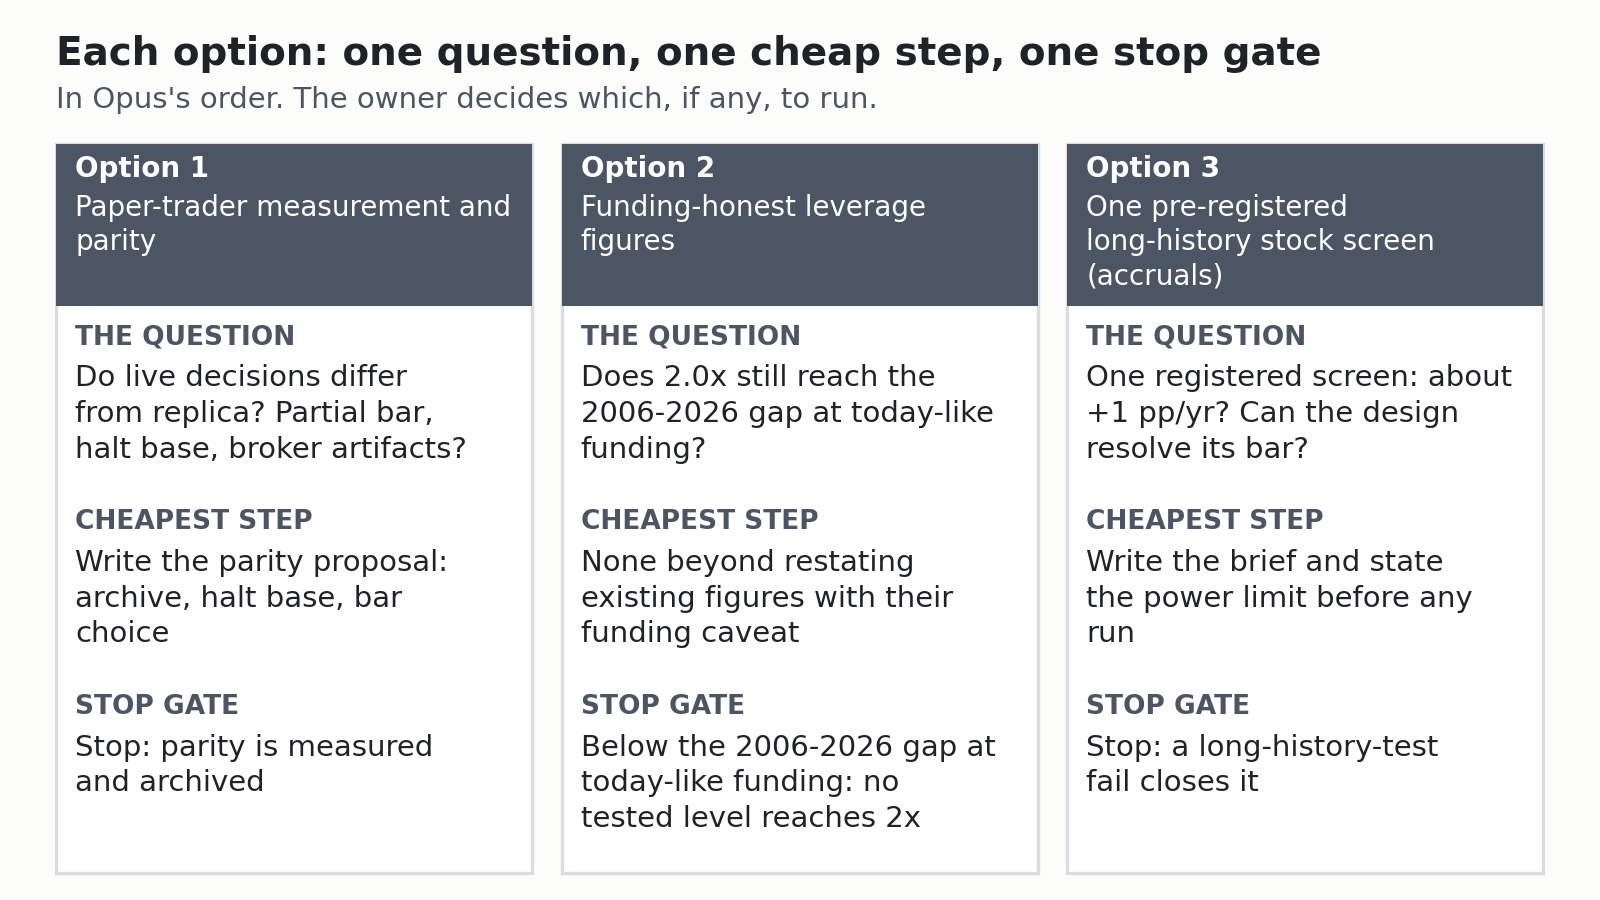
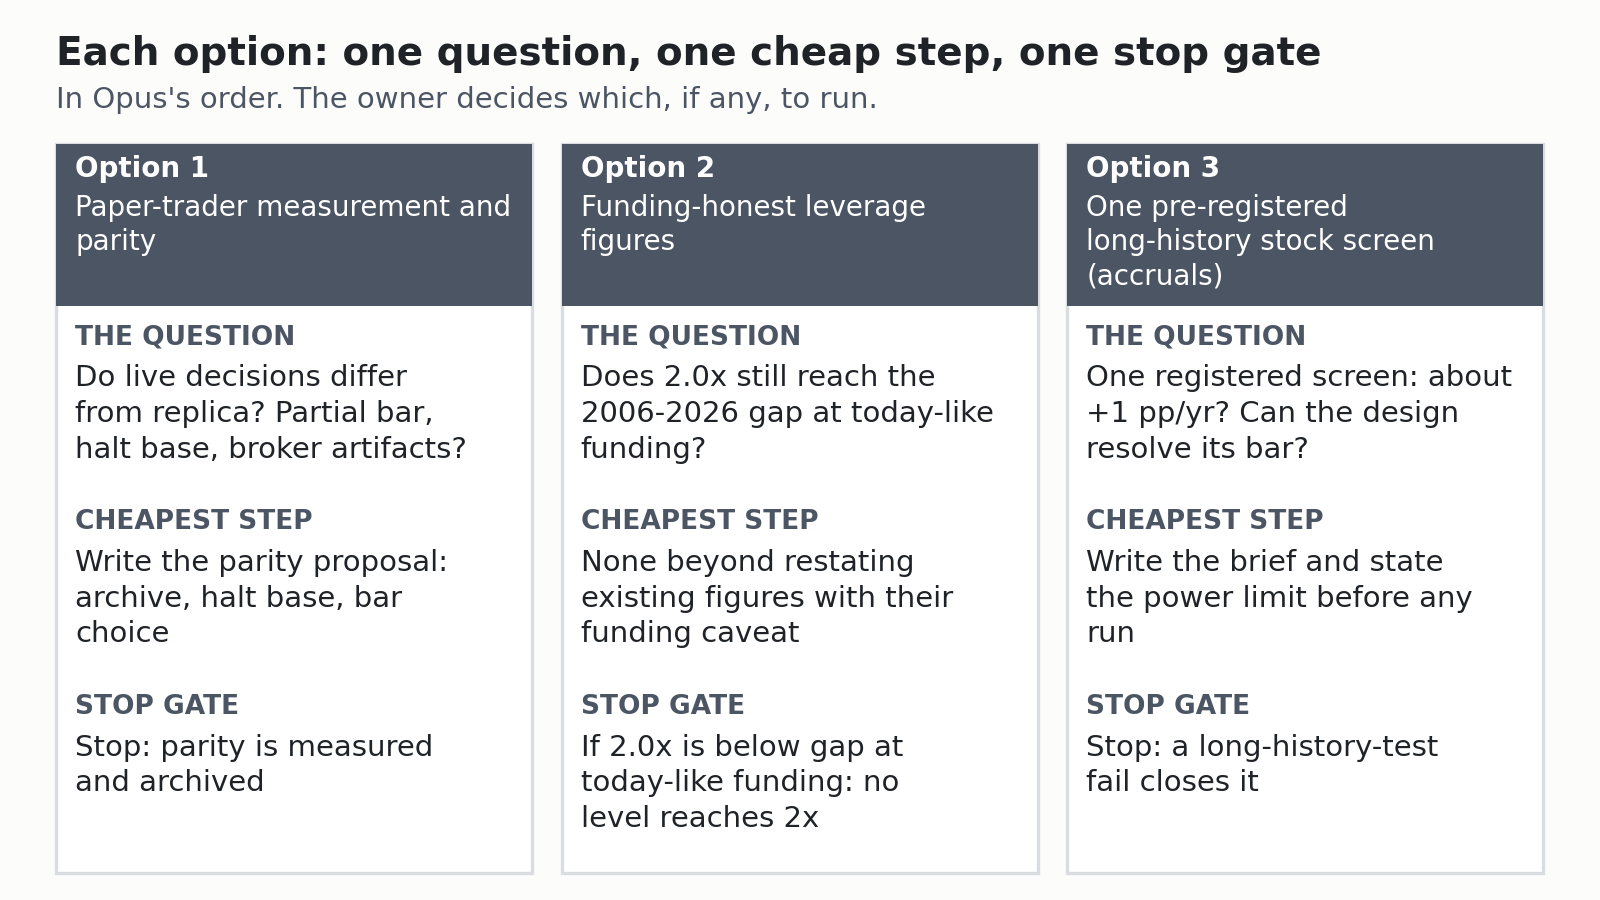
fix(research): state the stop gate as a condition in the options chart
Option 2's stop gate now reads as a condition and fits the 12-word cap. Only options-at-a-glance.png is re-rendered.

Changed region(s): [[0.3438, 0.8089, 0.625, 0.84], [0.3438, 0.9022, 0.5625, 0.9333]]

diff --git a/scripts/root_cause_figures.py b/scripts/root_cause_figures.py
@@ -143,7 +143,7 @@ OPTIONS: tuple[OptionBlock, ...] = (
         f"{REVIEW}:221",
         "None beyond restating existing figures with their funding caveat",
         f"{REVIEW}:222",
-        "Below the 2006-2026 gap at today-like funding: no tested level reaches 2x",
+        "If 2.0x is below gap at today-like funding: no level reaches 2x",
         f"{REVIEW}:232",
     ),
     OptionBlock(
